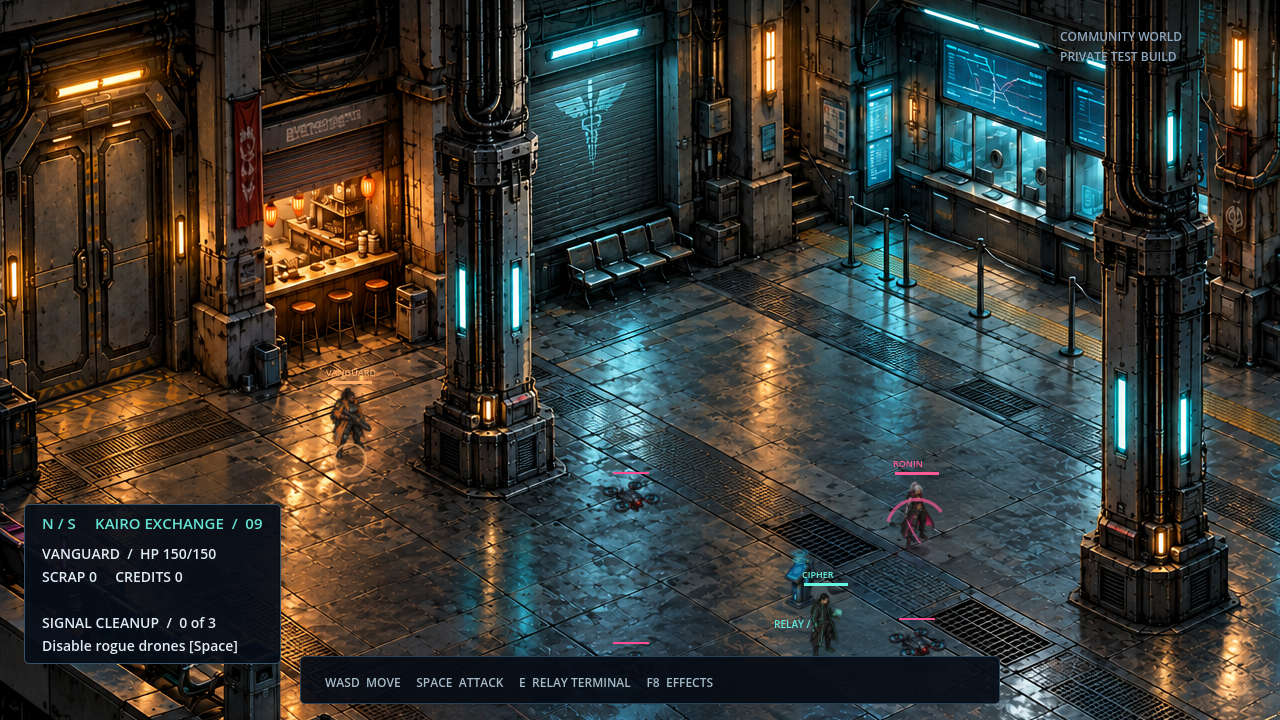
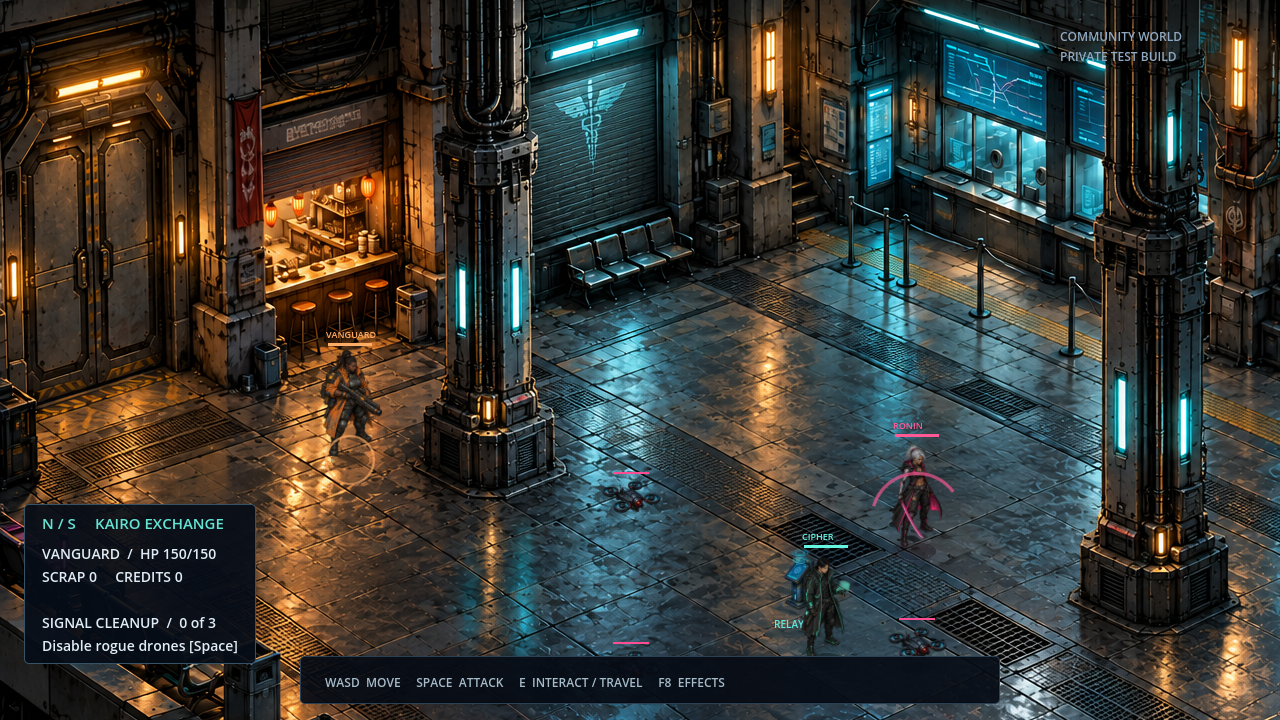
Show larger characters matched to interior scale

diff --git a/docs/screenshots/README.md b/docs/screenshots/README.md
@@ -4,6 +4,8 @@ The active areas are **Kairo Exchange and its connected Maintenance Bay**, with 
 
 These are actual Godot renders with dynamic game actors. They are staged visual captures; real multiplayer combat and persistence were tested separately.
 
+Characters are now **50% larger** (114 pixels tall), with matching foot shadows and selection rings, raised labels, and adjusted column fading. These previews show the updated scale in both rooms.
+
 ## Maintenance Bay
 
 ![Playable maintenance bay](maintenance.png)
